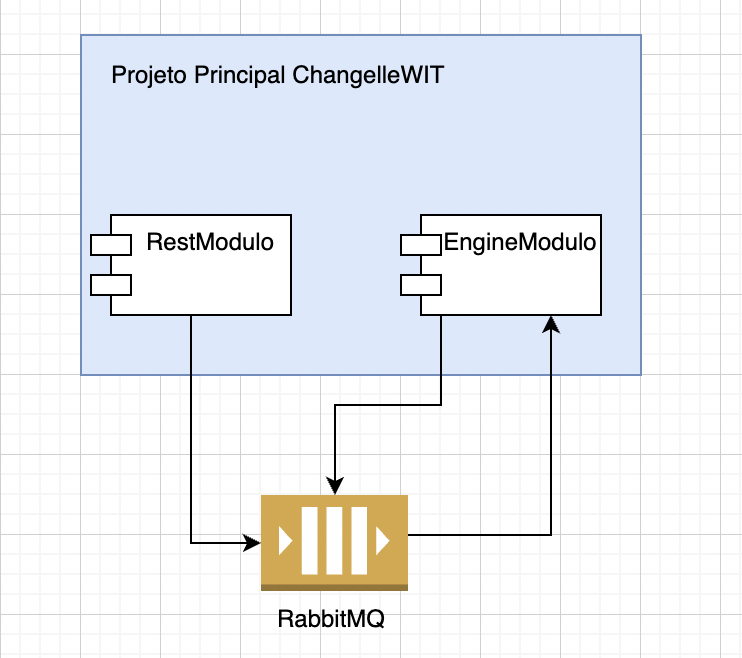
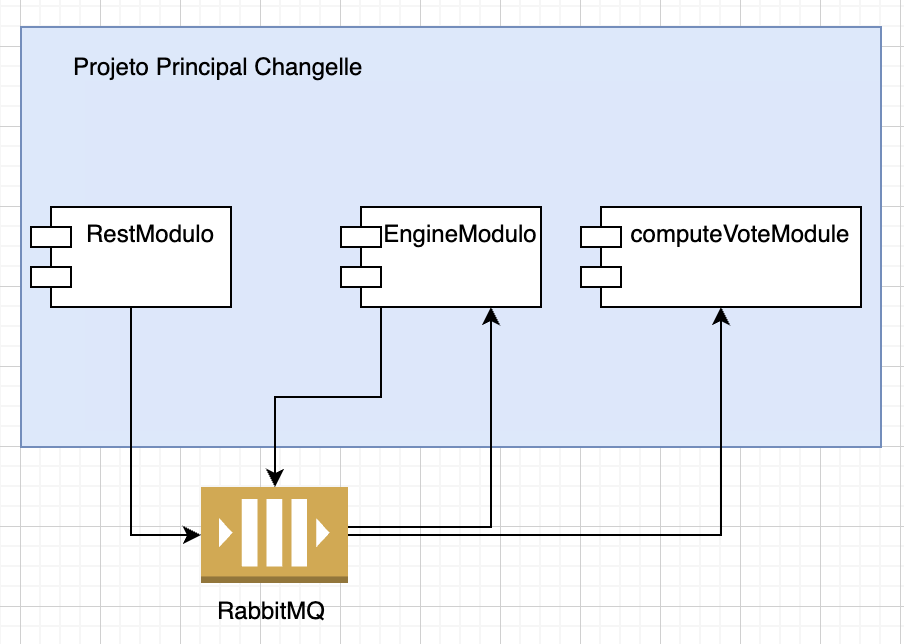
atualizando documentacao

diff --git a/computeVoteModule/src/main/java/com/wit/computeVoteModule/connections/VoteConsumer.java b/computeVoteModule/src/main/java/com/wit/computeVoteModule/connections/VoteConsumer.java
@@ -15,13 +15,9 @@ public class VoteConsumer {
     private static final Logger LOGGER = LoggerFactory.getLogger(VoteConsumer.class);
 
     @Autowired
-    private final RabbitMQService rabbitMQService;
-
-    @Autowired
     private final CandidateService candidateService;
 
-    public VoteConsumer(RabbitMQService rabbitMQService, CandidateService candidateService) {
-        this.rabbitMQService = rabbitMQService;
+    public VoteConsumer(CandidateService candidateService) {
         this.candidateService = candidateService;
     }
 

diff --git a/README.md b/README.md
@@ -83,3 +83,8 @@ obs.: Importe o aquivo do insomina, para fazer os testes de API.
 ### Diagrama de Sequencia Engine Modulo
 
 <img src="https://github.com/haganicolau/SpringRabbitmq/blob/main/doc/diagrams/sequence-engine-module.png" width="550">
+
+
+### Diagrama de Sequencia Compute Vote Modulo
+
+<img src="https://github.com/haganicolau/SpringRabbitmq/blob/main/doc/diagrams/sequence-compute-vote.png" width="550">
